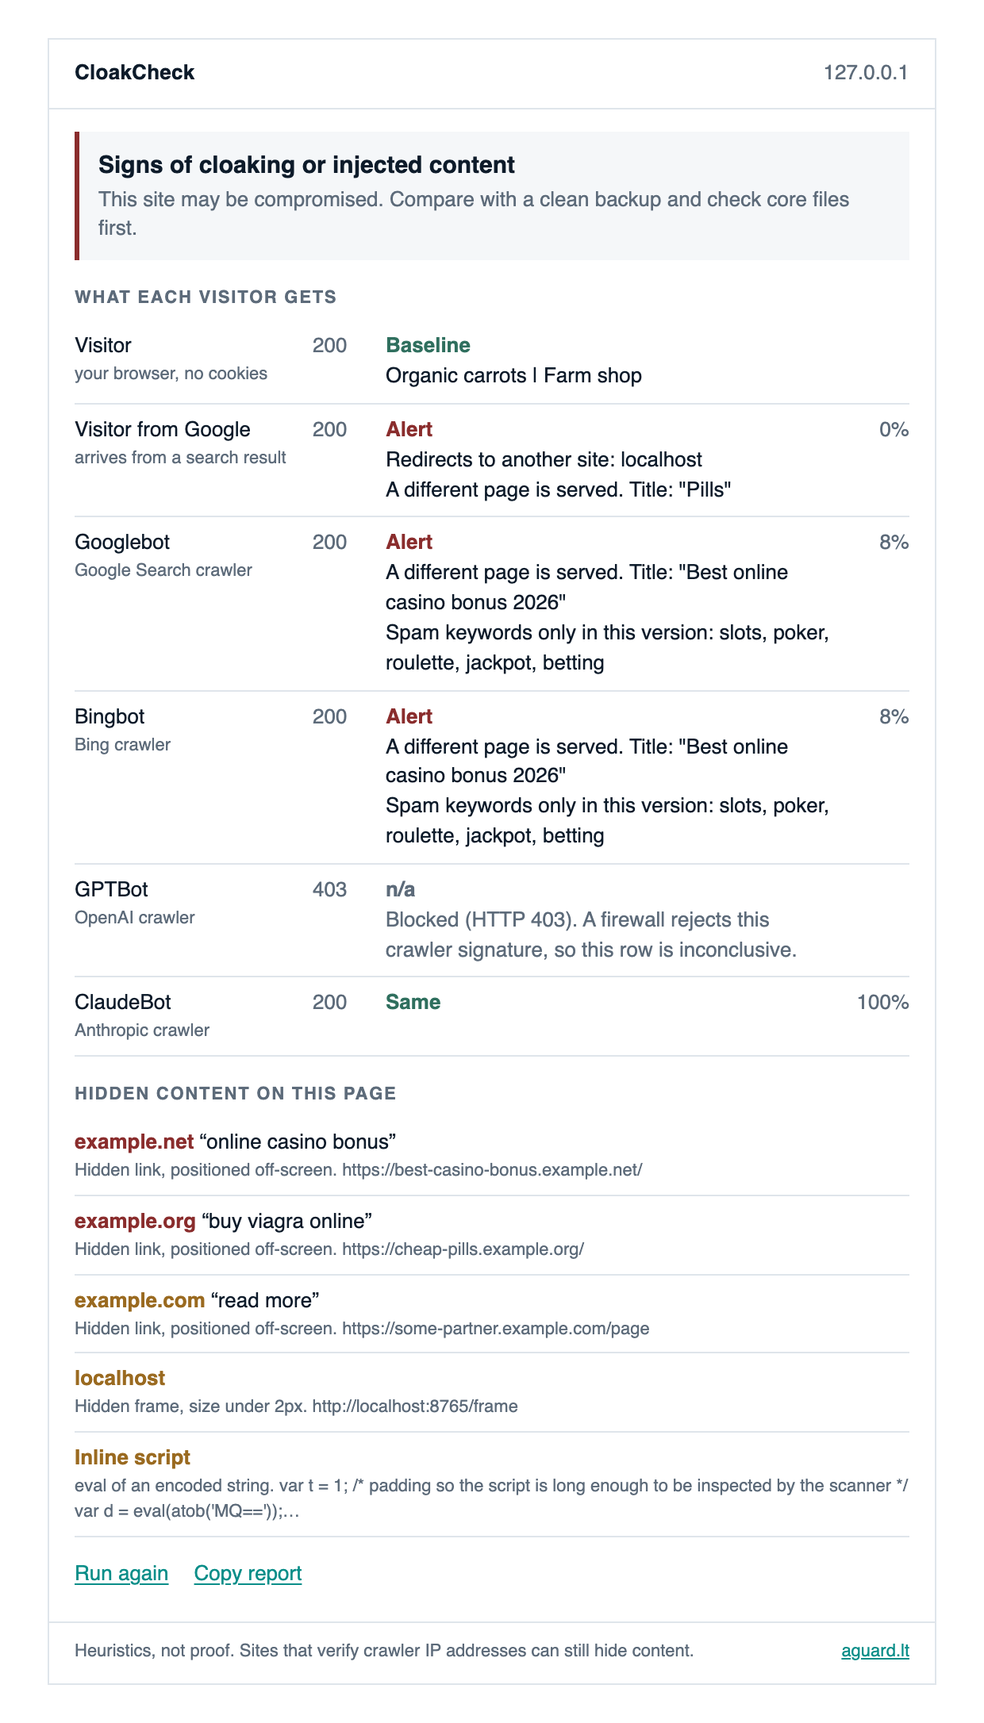
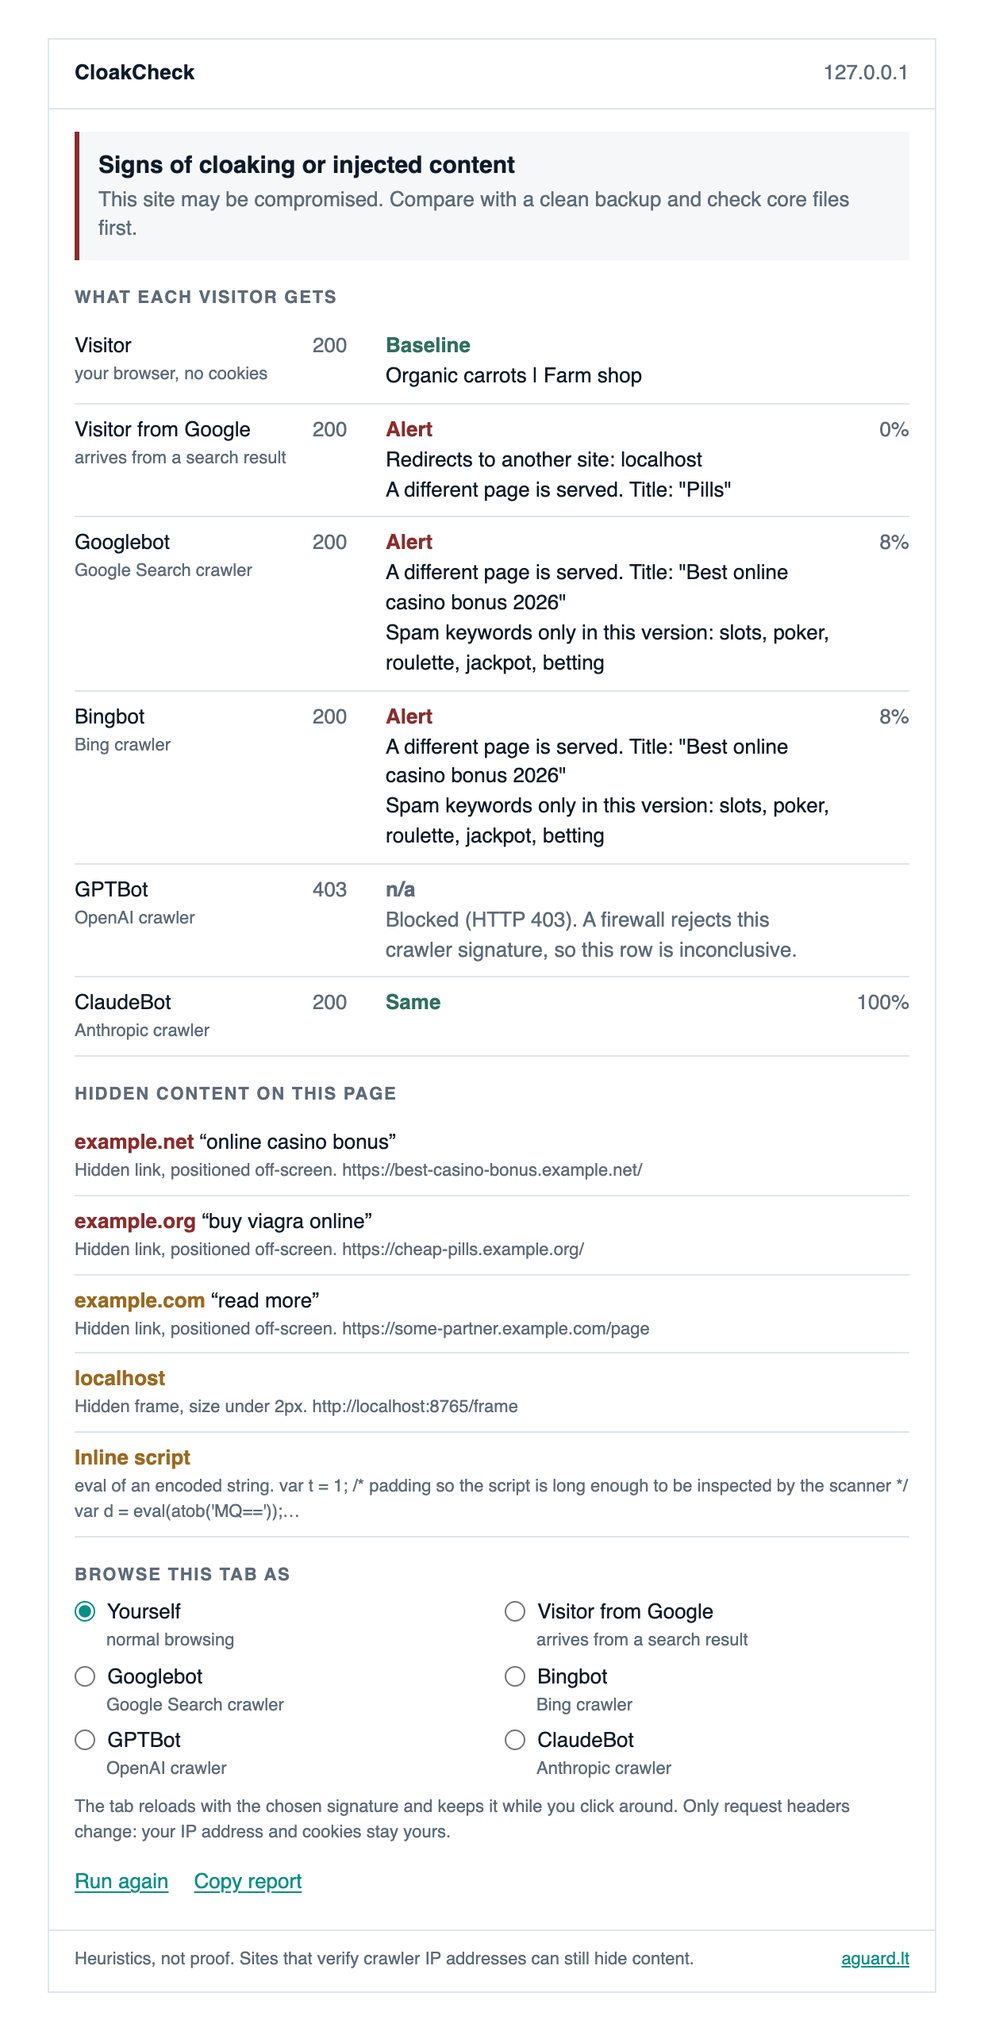
0.2.0: browse a tab as a crawler, passive hidden-link watch
- Radio buttons in the report switch the tab to Googlebot, Bingbot, GPTBot,
  ClaudeBot or a visitor from Google until the user switches back.
- On sites the user has allowed, each loaded page is scanned for hidden links
  and the count is shown on the icon.
- End-to-end tests cover both.

diff --git a/extension/background.js b/extension/background.js
@@ -90,7 +90,96 @@ function pick(s, variant, cmp) {
   };
 }
 
+// ---- Browse as: keep one tab on a crawler signature until the user switches back ----
+
+const BROWSE_BASE_ID = 100;
+const ALL_TYPES = ['main_frame', 'sub_frame', 'stylesheet', 'script', 'image', 'font', 'object', 'xmlhttprequest', 'ping', 'media', 'websocket', 'other'];
+const BADGE = { search: 'REF', googlebot: 'GB', bingbot: 'BB', gptbot: 'GPT', claudebot: 'CB' };
+
+async function browseRule(tabId) {
+  const rules = await chrome.declarativeNetRequest.getSessionRules();
+  return rules.find((r) => r.id >= BROWSE_BASE_ID && r.condition.tabIds?.includes(tabId)) || null;
+}
+
+/** Which variant the tab is browsing as, or null. The rule itself is the state. */
+async function browseState(tabId) {
+  const rule = await browseRule(tabId);
+  if (!rule) return null;
+  const ua = rule.action.requestHeaders.find((h) => h.header === 'user-agent')?.value;
+  return (VARIANTS.find((v) => (ua ? v.ua === ua : v.id === 'search')) || {}).id || null;
+}
+
+async function browseAs(tabId, variantId) {
+  const variant = VARIANTS.find((v) => v.id === variantId && v.id !== 'human') || null;
+  const old = await browseRule(tabId);
+  const addRules = [];
+  if (variant) {
+    const all = await chrome.declarativeNetRequest.getSessionRules();
+    const requestHeaders = [];
+    if (variant.ua) requestHeaders.push({ header: 'user-agent', operation: 'set', value: variant.ua });
+    if (variant.bot) for (const h of CLIENT_HINTS) requestHeaders.push({ header: h, operation: 'remove' });
+    if (variant.referer) requestHeaders.push({ header: 'referer', operation: 'set', value: variant.referer });
+    addRules.push({
+      id: Math.max(BROWSE_BASE_ID - 1, ...all.map((r) => r.id)) + 1,
+      priority: 2,
+      action: { type: 'modifyHeaders', requestHeaders },
+      // The search-visitor signature only makes sense for the page itself.
+      condition: { urlFilter: '|http', tabIds: [tabId], resourceTypes: variant.bot ? ALL_TYPES : ['main_frame'] },
+    });
+  }
+  await chrome.declarativeNetRequest.updateSessionRules({ removeRuleIds: old ? [old.id] : [], addRules });
+  await paintBadge(tabId, variant?.id || null);
+  await chrome.tabs.reload(tabId, { bypassCache: true });
+  return variant?.id || null;
+}
+
+async function paintBadge(tabId, id, findings = null) {
+  try {
+    const n = findings?.count || 0;
+    const text = id ? BADGE[id] + (n ? '!' : '') : (n ? String(n) : '');
+    await chrome.action.setBadgeBackgroundColor({ tabId, color: findings?.level === 'warn' && !id ? '#9a6a20' : '#8a2d2d' });
+    await chrome.action.setBadgeText({ tabId, text });
+    await chrome.action.setTitle({ tabId, title: n ? `CloakCheck: ${n} hidden ${n === 1 ? 'item' : 'items'} on this page` : 'CloakCheck' });
+  } catch { /* tab is gone */ }
+}
+
+/**
+ * Passive check: when a page finishes loading on a site the user has allowed,
+ * look for hidden links and show the count on the icon. No network requests.
+ */
+async function passiveScan(tabId) {
+  let page;
+  try {
+    const [inj] = await chrome.scripting.executeScript({ target: { tabId }, func: scanPage });
+    page = inj?.result;
+  } catch { return null; } // no permission for this site, or not a web page
+  if (!page) return null;
+  const count = page.links.filter((l) => l.level !== 'info').length + page.iframes.length + page.scripts.length;
+  const findings = { count, level: page.level };
+  await paintBadge(tabId, await browseState(tabId), findings);
+  return findings;
+}
+
+// Chrome clears a per-tab badge on navigation, so put it back.
+chrome.tabs.onUpdated.addListener(async (tabId, info) => {
+  if (info.status === 'loading') {
+    const id = await browseState(tabId);
+    if (id) paintBadge(tabId, id);
+  } else if (info.status === 'complete') {
+    passiveScan(tabId);
+  }
+});
+chrome.tabs.onRemoved.addListener(async (tabId) => {
+  const rule = await browseRule(tabId);
+  if (rule) chrome.declarativeNetRequest.updateSessionRules({ removeRuleIds: [rule.id] });
+});
+
 chrome.runtime.onMessage.addListener((msg, _sender, sendResponse) => {
+  if (msg?.type === 'browseState') { browseState(msg.tabId).then((id) => sendResponse({ ok: true, id }), () => sendResponse({ ok: true, id: null })); return true; }
+  if (msg?.type === 'browseAs') {
+    browseAs(msg.tabId, msg.id).then((id) => sendResponse({ ok: true, id }), (e) => sendResponse({ ok: false, error: e?.message || String(e) }));
+    return true;
+  }
   if (msg?.type !== 'run') return;
   queue = queue.then(() => runCheck(msg.tabId, msg.url)).then(
     (report) => sendResponse({ ok: true, report }),
@@ -100,3 +189,6 @@ chrome.runtime.onMessage.addListener((msg, _sender, sendResponse) => {
 });
 
 globalThis.runCheck = runCheck; // for end-to-end tests
+globalThis.browseAs = browseAs;
+globalThis.browseState = browseState;
+globalThis.passiveScan = passiveScan;

diff --git a/extension/popup.js b/extension/popup.js
@@ -1,4 +1,4 @@
-import { registrable, hostOf, pct } from './lib/analyze.js';
+import { VARIANTS, registrable, hostOf, pct } from './lib/analyze.js';
 
 const $ = (id) => document.getElementById(id);
 const params = new URLSearchParams(location.search);
@@ -27,7 +27,7 @@ async function init() {
   }
   $('site').textContent = hostOf(tab.url);
   if (await chrome.permissions.contains({ origins: [originPattern(tab.url)] })) return run();
-  $('startText').textContent = `CloakCheck needs your permission to request pages on ${registrable(hostOf(tab.url))}. Chrome will ask once per site.`;
+  $('startText').textContent = `CloakCheck needs your permission to request pages on ${registrable(hostOf(tab.url))}. Chrome will ask once per site. After that, pages on this site are also checked for hidden links each time you open them, and the icon shows how many were found.`;
   show('start');
 }
 
@@ -37,6 +37,7 @@ async function run() {
   if (!res?.ok) { $('errorText').textContent = 'Check failed: ' + (res?.error || 'unknown error'); return show('error'); }
   lastReport = res.report;
   render(res.report);
+  await renderBrowse();
   show('result');
 }
 
@@ -100,6 +101,30 @@ function render(r) {
     }
   }
 }
+
+async function renderBrowse() {
+  const form = $('browse');
+  form.replaceChildren();
+  if (tab.id == null) { form.hidden = $('browseNote').hidden = true; return; }
+  const state = await chrome.runtime.sendMessage({ type: 'browseState', tabId: tab.id });
+  const current = state?.id || 'human';
+  for (const v of VARIANTS) {
+    const label = el('label');
+    const input = el('input');
+    input.type = 'radio'; input.name = 'as'; input.value = v.id; input.checked = v.id === current;
+    label.append(input, ' ', v.id === 'human' ? 'Yourself' : v.label, el('small', '', v.id === 'human' ? 'normal browsing' : v.hint));
+    form.append(label);
+  }
+}
+
+$('browse').addEventListener('change', async (e) => {
+  const id = e.target.value;
+  const res = await chrome.runtime.sendMessage({ type: 'browseAs', tabId: tab.id, id });
+  const v = VARIANTS.find((x) => x.id === id);
+  $('browseNote').textContent = !res?.ok ? 'Could not switch: ' + (res?.error || 'unknown error')
+    : id === 'human' ? 'Back to normal browsing. The tab was reloaded.'
+    : `The tab was reloaded as ${v.label} and stays that way until you switch back or close it. Press "Run again" to scan what it shows now.`;
+});
 
 function el(tag, cls = '', text) {
   const e = document.createElement(tag);

diff --git a/extension/popup.css b/extension/popup.css
@@ -28,6 +28,9 @@ td.sim { width: 46px; text-align: right; color: var(--muted); font-variant-numer
 .item { padding: 7px 0; border-bottom: 1px solid var(--line); overflow-wrap: anywhere; }
 .item .why { color: var(--muted); font-size: 11px; }
 .item.bad .dom { color: var(--bad); font-weight: 600; } .item.warn .dom { color: var(--warn); font-weight: 600; }
+.browse { display: grid; grid-template-columns: 1fr 1fr; gap: 6px 16px; margin-bottom: 8px; }
+.browse label { cursor: pointer; } .browse small { display: block; color: var(--muted); font-size: 11px; margin-left: 20px; }
+.browse input { accent-color: var(--accent); margin: 0 4px 0 0; vertical-align: -2px; }
 .actions { display: flex; gap: 16px; margin: 14px 0 6px; }
 footer { display: flex; justify-content: space-between; gap: 12px; padding: 10px 16px 12px; border-top: 1px solid var(--line); margin-top: 8px; }
 footer a { color: var(--accent); white-space: nowrap; }

diff --git a/extension/popup.html b/extension/popup.html
@@ -24,10 +24,13 @@
     <table id="variants"><tbody></tbody></table>
     <h2>Hidden content on this page</h2>
     <div id="page"></div>
+    <h2>Browse this tab as</h2>
+    <form id="browse" class="browse"></form>
+    <p class="fine" id="browseNote">The tab reloads with the chosen signature and keeps it while you click around. Only request headers change: your IP address and cookies stay yours.</p>
     <div class="actions">
       <button id="again" type="button" class="link">Run again</button>
       <button id="copy" type="button" class="link">Copy report</button>
-      <button id="allsites" type="button" class="link">Allow on all sites</button>
+      <button id="allsites" type="button" class="link">Watch every site for hidden links</button>
     </div>
   </section>
 </main>

diff --git a/test/e2e.py b/test/e2e.py
@@ -115,7 +115,7 @@ def main():
             if 'exceptionDetails' in r: raise RuntimeError(json.dumps(r['exceptionDetails'])[:600])
             return r['result'].get('value')
 
-        results = {}
+        results = {}; badges = {}
         for name in ('hacked', 'clean'):
             url = f'http://127.0.0.1:{PORT}/{name}/'
             open_tab(url)
@@ -126,6 +126,8 @@ def main():
                 if tab_id is not None: break
                 time.sleep(0.5)
             assert tab_id is not None, f'tab not visible to the extension: {tabs}'
+            time.sleep(1)
+            badges[name] = sw_eval(f"chrome.action.getBadgeText({{tabId:{tab_id}}})")
             del SEEN[:]
             rep = sw_eval(f"runCheck({tab_id}, '{url}')")
             results[name] = (rep, list(SEEN), tab_id, url)
@@ -145,6 +147,8 @@ def main():
             print(('PASS  ' if cond else 'FAIL  ') + msg)
             ok = ok and bool(cond)
 
+        check(badges['hacked'] == '5', f"passive scan put the number of hidden items on the icon (got {badges['hacked']!r})")
+        check(badges['clean'] == '', 'passive scan leaves the icon empty on a clean page')
         rep, seen, _, _ = results['hacked']
         by = {v['id']: v for v in rep['variants']}
         uas = [s['ua'] for s in seen if s['path'] == '/hacked/']
@@ -164,6 +168,27 @@ def main():
         rep2 = results['clean'][0]
         check(rep2['level'] == 'ok' and all(v['level'] == 'ok' for v in rep2['variants']), 'clean site: every row ok')
         check(rep2['page']['level'] in ('ok', 'info') and not [l for l in rep2['page']['links'] if l['level'] != 'info'], 'clean site: collapsed menu link is not an alert')
+
+        # Browse as: the tab itself must be served the crawler version, and go back on reset.
+        _, _, tab_id, url = results['hacked']
+        def tab_title():
+            t = next(t for t in targets() if t['type'] == 'page' and t['url'] == url)
+            return WS(t['webSocketDebuggerUrl']).call('Runtime.evaluate', {'expression': 'document.title', 'returnByValue': True})['result'].get('value')
+        del SEEN[:]
+        check(sw_eval(f"browseAs({tab_id}, 'googlebot')") == 'googlebot', 'browse-as accepted Googlebot')
+        time.sleep(2)
+        nav = [x for x in SEEN if x['path'] == '/hacked/']
+        check(nav and all('Googlebot/2.1' in x['ua'] for x in nav), 'tab navigation carries the Googlebot User-Agent')
+        check('casino' in (tab_title() or '').lower(), 'tab shows the page served to Googlebot')
+        check(sw_eval(f"chrome.action.getBadgeText({{tabId:{tab_id}}})") == 'GB', 'icon shows the active crawler signature')
+        check(sw_eval(f"browseState({tab_id})") == 'googlebot', 'browse-as state survives in the rule')
+        clean_tab = results['clean'][2]
+        check(sw_eval(f"browseState({clean_tab})") is None, 'other tabs are not affected')
+        del SEEN[:]
+        sw_eval(f"browseAs({tab_id}, 'human')"); time.sleep(2)
+        nav = [x for x in SEEN if x['path'] == '/hacked/']
+        check(nav and not any('Googlebot' in x['ua'] for x in nav) and 'carrots' in (tab_title() or ''), 'switching back restores normal browsing')
+        check(sw_eval("chrome.declarativeNetRequest.getSessionRules().then(r=>r.length)") == 0, 'no header rules left behind')
         if not ok: print(json.dumps(rep, indent=1)[:3000])
 
         os.makedirs(os.path.join(ROOT, 'docs'), exist_ok=True)

diff --git a/store/build.py b/store/build.py
@@ -1,0 +1,34 @@
+#!/usr/bin/env python3
+"""Builds the Chrome Web Store images from docs/ screenshots: python3 store/build.py"""
+import os, pymupdf
+os.chdir(os.path.dirname(os.path.dirname(os.path.abspath(__file__))))
+NAVY = (13/255, 27/255, 42/255); TEAL = (10/255, 142/255, 137/255); W = (1, 1, 1); G = (0.72, 0.77, 0.82)
+
+def canvas(w, h):
+    d = pymupdf.open(); p = d.new_page(width=w, height=h); p.draw_rect(p.rect, fill=NAVY, color=None); return p
+
+def shot(name, src, top, crop_h, title, lines):
+    p = canvas(1280, 800)
+    pm = pymupdf.Pixmap(src); cw = pm.width; ch = min(crop_h, pm.height - top)
+    c = pymupdf.Pixmap(pymupdf.csRGB, pymupdf.IRect(0, 0, cw, ch)); c.set_origin(0, top); c.copy(pm, pymupdf.IRect(0, top, cw, top + ch))
+    sc = min(740 / ch, 600 / cw); w, h = cw * sc, ch * sc
+    x = 1280 - w - 50; y = (800 - h) / 2
+    p.insert_image(pymupdf.Rect(x, y, x + w, y + h), pixmap=c)
+    p.insert_text((60, 150), 'CloakCheck', fontsize=20, fontname='hebo', color=TEAL)
+    p.insert_textbox(pymupdf.Rect(60, 200, x - 40, 420), title, fontsize=40, fontname='hebo', color=W, lineheight=1.15)
+    yy = 440
+    for l in lines:
+        p.insert_textbox(pymupdf.Rect(60, yy, x - 40, yy + 70), l, fontsize=19, fontname='helv', color=G, lineheight=1.3); yy += 74
+    p.get_pixmap(alpha=False).save(f'store/{name}.png')
+
+shot('screenshot-1-1280x800', 'docs/screenshot-hacked.png', 0, 1500, 'Does Google see\nthe same page\nyou do?',
+     ['Compare what visitors, Googlebot, Bingbot and AI crawlers receive.', 'Spot injected spam pages and redirects that owners never see.'])
+shot('screenshot-2-1280x800', 'docs/screenshot-hacked.png', 1360, 1300, 'Hidden links,\nfound as you\nbrowse.',
+     ['Concealed outbound links, frames and scripts are counted on the icon.', 'Switch the tab to Googlebot or an AI crawler and click around.'])
+shot('screenshot-3-1280x800', 'docs/screenshot-clean.png', 0, 1500, 'One click.\nA clear answer.',
+     ['Six requests, compared side by side.', 'Nothing leaves your browser.'])
+p = canvas(440, 280)
+p.insert_image(pymupdf.Rect(36, 92, 132, 188), filename='extension/icons/128.png')
+p.insert_text((152, 134), 'CloakCheck', fontsize=34, fontname='hebo', color=W)
+p.insert_textbox(pymupdf.Rect(152, 146, 420, 200), 'See a page as Googlebot\nand AI crawlers see it', fontsize=15, fontname='helv', color=G, lineheight=1.3)
+p.get_pixmap(alpha=False).save('store/promo-small-440x280.png')

diff --git a/README.md b/README.md
@@ -27,6 +27,10 @@ For each row it reports the HTTP status, text similarity with the visitor versio
 
 **2. Hidden content on the page you see.** The rendered page is scanned for outbound links a visitor cannot see: `display:none`, zero opacity, text under 2px, blocks positioned off-screen, zero-size boxes, text in the background colour. Hidden frames and inline scripts that `eval` encoded strings are listed as well. Links inside ordinary collapsed menus are counted but not flagged.
 
+**3. Passive watch.** On sites you have allowed, the hidden-content scan runs by itself every time a page finishes loading. The number of findings appears on the extension icon. This step makes no network requests. Use "Watch every site for hidden links" in the report to allow it everywhere.
+
+**4. Browse as a crawler.** Pick Googlebot, Bingbot, GPTBot, ClaudeBot or "Visitor from Google" in the report and the tab reloads with that signature. It keeps the signature while you click around, until you switch back to "Yourself" or close the tab. The icon shows which signature is active.
+
 ## Install
 
 The extension is not in the Chrome Web Store yet.
@@ -45,6 +49,7 @@ The extension is not in the Chrome Web Store yet.
 ## Limits
 
 - Only the User-Agent and Referer are changed. The request still leaves from your IP address. Malware that verifies crawler IP ranges will show the clean page to this tool. Google Search Console's URL Inspection is the way to see what the real Googlebot received.
+- Browse-as changes request headers only. Scripts on the page still see your real browser through `navigator.userAgent`, and your cookies are sent as usual.
 - The comparison uses the HTML the server returns. Content that JavaScript adds later is covered only by the hidden-content scan of the open tab.
 - Some malware shows the payload once per IP address or only to mobile devices. A clean result does not prove a clean site.
 - A site may lawfully serve different content to crawlers, for example a paywall. The findings are heuristics.
@@ -53,11 +58,11 @@ The extension is not in the Chrome Web Store yet.
 
 | Permission | Why |
 | --- | --- |
-| `activeTab`, `scripting` | read the open page to look for hidden links, only after you click the icon |
-| `declarativeNetRequestWithHostAccess` | set the User-Agent and Referer on the extension's own test requests |
+| `activeTab`, `scripting` | read the open page to look for hidden links: on click, and automatically on sites you have allowed |
+| `declarativeNetRequestWithHostAccess` | set the User-Agent and Referer on the extension's own test requests, and on a tab you switched to browse-as |
 | site access, asked per site | fetch the page you are checking |
 
-Nothing is collected or sent anywhere. There is no server, no analytics and no remote code. The header rule applies only to requests the extension itself makes, never to your browsing. See [PRIVACY.md](PRIVACY.md).
+Nothing is collected or sent anywhere. There is no server, no analytics and no remote code. Request headers of your own browsing change only in a tab you explicitly switched to a crawler signature. See [PRIVACY.md](PRIVACY.md).
 
 ## Development
 

diff --git a/store/LISTING.md b/store/LISTING.md
@@ -17,6 +17,8 @@ What it does
 • Requests the current page as a regular visitor, a visitor arriving from Google, Googlebot, Bingbot, GPTBot and ClaudeBot.
 • Compares every response with the visitor version: HTTP status, text similarity, title, redirects to another domain, new external domains, spam vocabulary.
 • Scans the open page for outbound links a visitor cannot see, hidden frames and obfuscated inline scripts.
+• Watches the sites you allow: hidden links are counted on the icon as you browse, without any extra requests.
+• Lets you browse a tab as Googlebot, Bingbot, GPTBot or ClaudeBot and see the site the way they do.
 • Gives a plain verdict and a report you can copy.
 
 Who it is for
@@ -30,7 +32,7 @@ Nothing is collected or sent anywhere. No server, no analytics, no remote code. 
 
 Open source: https://github.com/aguardlt/cloak-check
 
-Images: store/screenshot-1-1280x800.png, store/screenshot-2-1280x800.png, store/promo-small-440x280.png, icon extension/icons/128.png
+Images: store/screenshot-1-1280x800.png, store/screenshot-2-1280x800.png, store/screenshot-3-1280x800.png, store/promo-small-440x280.png, icon extension/icons/128.png
 
 Homepage URL: https://aguard.lt
 Support URL: https://github.com/aguardlt/cloak-check/issues
@@ -44,13 +46,13 @@ activeTab justification:
 The extension reads the address of the current tab when the user clicks the icon, so it knows which page to check.
 
 scripting justification:
-After the user clicks the icon, the extension runs one bundled function in the current tab to list outbound links that are not visible to a visitor. No remote code is executed.
+The extension runs one bundled function in the tab to list outbound links that are not visible to a visitor. It runs when the user clicks the icon, and on page load for sites the user has granted access to. No remote code is executed.
 
 declarativeNetRequestWithHostAccess justification:
-The extension sets the User-Agent and Referer headers on its own test requests to the checked page, to see what a crawler receives. The rule is limited to requests made by the extension itself and never affects the user's browsing.
+The extension sets the User-Agent and Referer headers on its own test requests to the checked page, to see what a crawler receives. The rule covers requests made by the extension itself. It applies to a browser tab only when the user explicitly switches that tab to a crawler signature, and is removed when the user switches back or closes the tab.
 
 Host permission justification:
-Host access is optional and requested per site at the moment of the check. It is needed to fetch the checked page with different request headers and to read the open tab for hidden links.
+Host access is optional and requested per site at the moment of the check. It is needed to fetch the checked page with different request headers, to read the tab for hidden links, and to apply the chosen crawler signature to that tab.
 
 Remote code: No, I am not using remote code.
 

diff --git a/PRIVACY.md b/PRIVACY.md
@@ -2,9 +2,10 @@
 
 CloakCheck does not collect, store or transmit any personal data.
 
-- The extension runs only when you click its icon.
+- The extension acts on a site only after you allow that site. On allowed sites it checks each page you open for hidden links, locally, and shows the count on its icon.
 - It requests the address of the tab you are checking, several times, directly from that website. These requests carry no cookies.
-- It reads the content of that tab to look for hidden links. The result is shown in the popup and discarded when the popup closes.
+- It reads the content of the tab to look for hidden links. The result is shown on the icon and in the popup and is not stored.
+- If you switch a tab to a crawler signature, the User-Agent and Referer headers of that tab are changed until you switch back or close it.
 - Nothing is sent to AGuard or to any third party. The extension has no server, no analytics and loads no remote code.
 - "Copy report" places the text on your clipboard. It goes nowhere unless you paste it.
 
